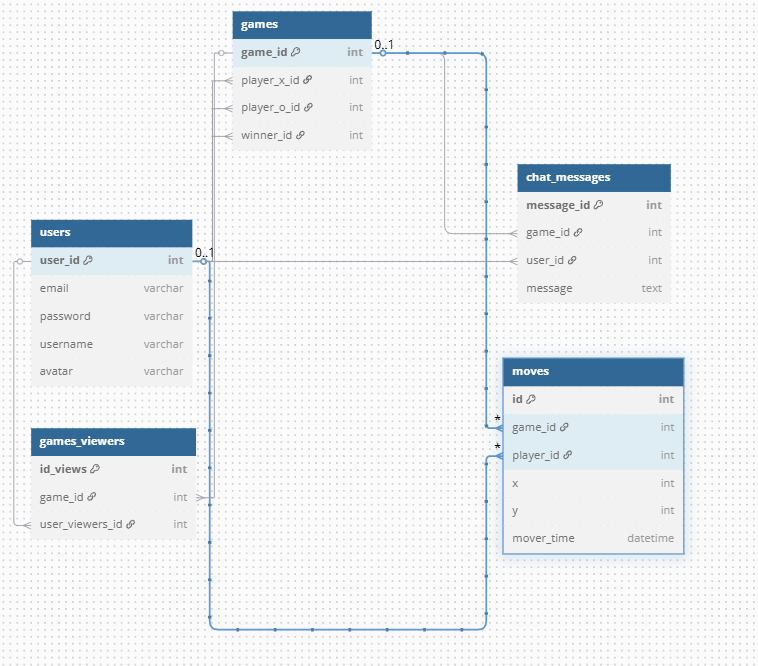
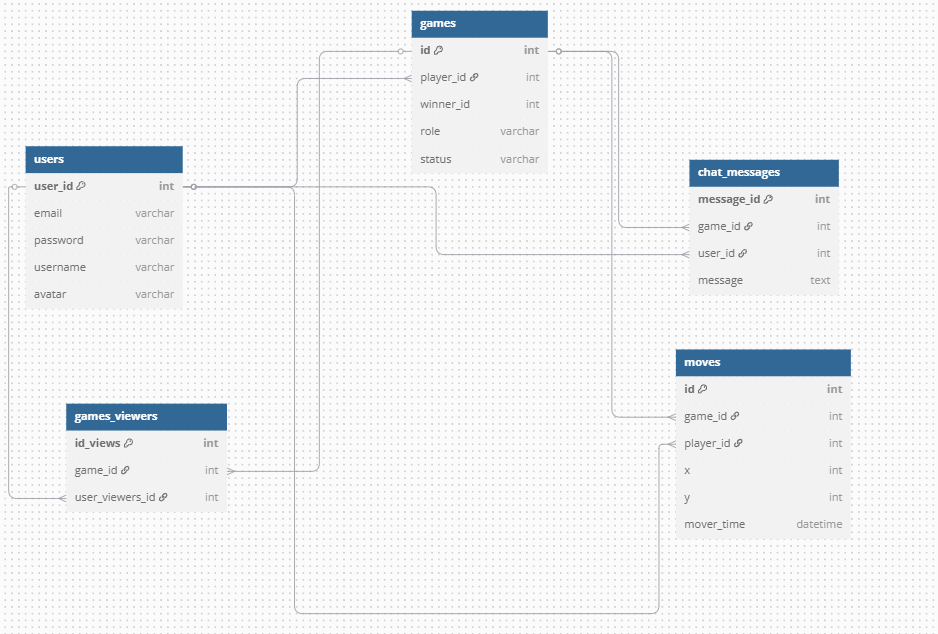
Udate database

diff --git a/server/src/controllers/userController.js b/server/src/controllers/userController.js
@@ -1,23 +1,23 @@
 const db = require('../models');
 
 const userController = {
-    create_user: async function create_user(req, res) {
+    create_user: async function (req, res) {
         try {
-            const { username, password, email } = req.body;
-            const newUser = await db.create({username,password,email})
+            console.log(req.body);
+            const newUser = await db.user.create(req.body);
             res.status(201).json({
                 message: 'Create user success',
                 data: newUser
             });
         } catch (error) {
             res.status(500).json({
-                message: 'Error creating user',
+                message: 'Không thể tạo người dùng',
                 error: error.message
             });
         }
     },
 
-    get_user_byID: async function get_user(req, res) {
+    get_user_byID: async function (req, res) {
         try {
             const user = await userModel.findById(req.params.id);
             if (!user) {
@@ -35,7 +35,7 @@ const userController = {
         }
     },
 
-    delete_user_byID: async function delete_user(req, res) {
+    delete_user_byID: async function (req, res) {
         try {
             const deletedUser = await userModel.findByIdAndDelete(req.params.id);
             if (!deletedUser) {
@@ -53,7 +53,7 @@ const userController = {
         }
     },
 
-    update_user: async function update_user(req, res) {
+    update_user: async function (req, res) {
         try {
             const updatedUser = await userModel.findByIdAndUpdate(
                 req.params.id,

diff --git a/server/index.js b/server/index.js
@@ -1,23 +1,27 @@
 const express = require('express');
 const dotenv = require('dotenv');
 
+
+// npx sequelize-cli db:migrate
+// npx sequelize-cli model:generate --name games --attributes game_id:integer,player_x_id:integer,player_o_id:integer,winner_id:interger
+// npx sequelize-cli model:generate --name moves --attributes game_id:integer,player_id:integer,move_x:integer,move_y:integer,move_time:date
+
+// npx sequelize-cli db:migrate:undo:all
+// npx sequelize-cli model:generate --name chat_messages --attributes game_id:integer,player_id:integer,message:text
+
+// npx sequelize-cli model:generate --name game_views --attributes game_id:integer,player_id:integer
+
+const AppRoutes = require('./src/router/App.routes.js');
+
 const app = express();
 
 dotenv.config();
+app.use(express.json());
+express.urlencoded({ extended: true }); // Hỗ trợ query string
 
-const userRouter = express.Router();
+AppRoutes(app);
 
-userRouter.get('/users:id', (req, res) => {
-    const userId = req.params.id;
-    res.send(`User ID: ${userId}`);
-});
-
-userRouter.get('/', (req, res) => {
-    res.send('Hello, World1122221!');  
-});
-
-app.use('/', userRouter);
-
-app.listen(process.env.PORT, () => {
-    console.log(`Server is running at http://localhost:${process.env.PORT}`);
+const port = process?.env?.PORT ?? 3000;
+app.listen(port, () => {
+    console.log(`Server is running at http://localhost:${port}`);
 });

diff --git a/client/src/api/axiosClinet.ts b/client/src/api/axiosClinet.ts
@@ -1,0 +1,55 @@
+import axios from "axios"
+import config from "../config/config";
+import queryString from "query-string"
+
+const axiosClient = axios.create({
+    baseURL:  config.baseUrl,
+    headers: {
+        'Content-Type': 'application/json',
+    },
+    paramsSerializer: params => queryString.stringify(params),
+    timeout: 10000,
+});
+
+
+axiosClient.interceptors.request.use(
+    config => {
+      const token = localStorage.getItem('access_token');
+      if (token) {
+        config.headers.Authorization = `Bearer ${token}`;
+      }
+      return config;
+    },
+    error => {
+      return Promise.reject(error);
+    }
+  );
+
+  axiosClient.interceptors.response.use(
+    (response) => {
+      if (response && response.data) {
+        return response.data;
+      }
+      return response;
+    },
+    (error) => {
+      if (error.response) {
+        switch (error.response.status) {
+          case 401:
+            window.location.href = '/login';
+            break;
+          case 404:
+            console.error('API endpoint not found');
+            break;
+          case 500:
+            console.error('Server error');
+            break;
+          default:
+            console.error('Unknown error');
+        }
+      }
+      return Promise.reject(error);
+    }
+  );
+
+export default axiosClient;

diff --git a/server/src/models/games.js b/server/src/models/games.js
@@ -11,7 +11,7 @@ module.exports = (sequelize, DataTypes) => {
      */
     static associate(models) {
       // define association here
-      games.belongsTo(models.users, {
+      games.belongsTo(models.user, {
         foreignKey: 'player_id',
       });
       games.hasMany(models.moves, {
@@ -20,13 +20,12 @@ module.exports = (sequelize, DataTypes) => {
       games.hasMany(models.chat_messages, {
         foreignKey: 'game_id',
       });
-      games.hasMany(models.games_viewers, {
+      games.hasMany(models.game_views, {
         foreignKey: 'game_id',
       })
     }
   }
   games.init({
-    game_id: DataTypes.INTEGER,
     player_id: DataTypes.INTEGER,
     winner_id: DataTypes.INTEGER,
     role: DataTypes.STRING,
@@ -36,6 +35,7 @@ module.exports = (sequelize, DataTypes) => {
     modelName: 'games',
     tableName: 'games',
     underscored: true,
+    timestamps: false,
   });
   return games;
 };

diff --git a/server/src/migrations/20250418200612-create-game-views.js b/server/src/migrations/20250418200612-create-game-views.js
@@ -2,7 +2,7 @@
 /** @type {import('sequelize-cli').Migration} */
 module.exports = {
   async up(queryInterface, Sequelize) {
-    await queryInterface.createTable('game_views', {
+    await queryInterface.createTable('game_viewers', {
       id: {
         allowNull: false,
         autoIncrement: true,
@@ -13,21 +13,13 @@ module.exports = {
         type: Sequelize.INTEGER,
         allowNull: false
       },
-      player_id: {
+      user_id: {
         type: Sequelize.INTEGER,
         allowNull: false
       },
-      createdAt: {
-        allowNull: false,
-        type: Sequelize.DATE
-      },
-      updatedAt: {
-        allowNull: false,
-        type: Sequelize.DATE
-      }
     });
   },
   async down(queryInterface, Sequelize) {
-    await queryInterface.dropTable('game_views');
+    await queryInterface.dropTable('game_viewers');
   }
 };

diff --git a/server/src/models/user.js b/server/src/models/user.js
@@ -19,10 +19,10 @@ module.exports = (sequelize, DataTypes) => {
         foreignKey: 'player_id',
       });
       user.hasMany(models.chat_messages, {
-        foreignKey: 'player_id',
+        foreignKey: 'user_id',
       });
-      user.hasMany(models.game_viewers, {
-        foreignKey: 'player_id',
+      user.hasMany(models.game_views, {
+        foreignKey: 'user_id',
       });
       // Một người chơi có thể chơi nhiều ván game với 2 vai trò khác nhau
     }
@@ -34,6 +34,9 @@ module.exports = (sequelize, DataTypes) => {
   }, {
     sequelize,
     modelName: 'user',
+    tableName: 'users',
+    underscored: true,
+    timestamps: false,
   });
   return user;
 };

diff --git a/server/src/models/game_views.js b/server/src/models/game_views.js
@@ -14,19 +14,21 @@ module.exports = (sequelize, DataTypes) => {
       game_views.belongsTo(models.games, {
         foreignKey: 'game_id',
       });
-      game_views.belongsTo(models.players, {
-        foreignKey: 'player_id',
+      game_views.belongsTo(models.user, {
+        
+        foreignKey: 'user_id',
       });
     }
   }
   game_views.init({
     game_id: DataTypes.INTEGER,
-    player_id: DataTypes.INTEGER
+    user_id: DataTypes.INTEGER
   }, {
     sequelize,
-    modelName: 'game_viewers',
-    tableName: 'game_viewers',
+    modelName: 'game_views',
+    tableName: 'game_views',
     underscored: true,
+    timestamps: false,
   });
   return game_views;
 };

diff --git a/server/src/models/chat_messages.js b/server/src/models/chat_messages.js
@@ -14,18 +14,21 @@ module.exports = (sequelize, DataTypes) => {
       chat_messages.belongsTo(models.games, {
         foreignKey: 'game_id',
       });
-      chat_messages.belongsTo(models.users, {
-        foreignKey: 'player_id',
+      chat_messages.belongsTo(models.user, {
+        foreignKey: 'user_id',
       });
     }
   }
   chat_messages.init({
     game_id: DataTypes.INTEGER,
-    player_id: DataTypes.INTEGER,
+    user_id: DataTypes.INTEGER,
     message: DataTypes.TEXT
   }, {
     sequelize,
     modelName: 'chat_messages',
+    tableName: 'chat_messages',
+    underscored: true,
+    timestamps: false,
   });
   return chat_messages;
 };

diff --git a/client/src/services/authService.ts b/client/src/services/authService.ts
@@ -1,0 +1,25 @@
+import axiosClient from "../api/axiosClinet";
+
+interface User {
+    username: string;
+    email: string;
+    password: string;
+}
+
+interface AuthResponse {
+    access_token: string;  
+    user: User;
+}
+
+
+
+const authService = {
+    regiter: (username: string, email : string, password : string) : Promise<AuthResponse> => {
+        return axiosClient.post("/register", { username, email, password });
+    },
+    login: (email: string, password: string): Promise<AuthResponse> => {
+        return axiosClient.post('/auth/login', { email, password });
+    },  
+}
+
+export default authService;

diff --git a/client/src/layout/Auth/Register.tsx b/client/src/layout/Auth/Register.tsx
@@ -1,7 +1,8 @@
 import { Button, Paper, Stack, TextField, Typography } from '@mui/material'
 import { useState } from 'react'
-import theme from '../constants/theme'
+import theme from '../../constants/theme'
 import { Link } from 'react-router'
+
 
 const Register = () => {
   
@@ -9,11 +10,8 @@ const Register = () => {
     const [password,Setpassword] = useState<string>('')
     const [email,Setemail] = useState<string>('')
     const [passwordConfirm,SetpasswordConfirm] = useState<string>('')
-  
-  
     const handleSubmit = () => {}
-       
-  
+
   
     return (
       <Stack

diff --git a/server/src/models/moves.js b/server/src/models/moves.js
@@ -14,7 +14,7 @@ module.exports = (sequelize, DataTypes) => {
       moves.belongsTo(models.games, {
         foreignKey: 'game_id',
       });
-      moves.belongsTo(models.users, {
+      moves.belongsTo(models.user, {
         foreignKey: 'player_id',
       });
     }
@@ -30,6 +30,7 @@ module.exports = (sequelize, DataTypes) => {
     modelName: 'moves',
     tableName: 'moves',
     underscored: true,
+    timestamps: false,
   });
   return moves;
 };

diff --git a/client/src/layout/Auth/Login.tsx b/client/src/layout/Auth/Login.tsx
@@ -1,6 +1,6 @@
 import { Button, Paper, Stack, TextField, Typography } from "@mui/material";
-import LogoComponet from "../components/LogoComponent";
-import theme from "../constants/theme";
+import LogoComponet from "../../components/LogoComponent";
+import theme from "../../constants/theme";
 import { useState } from "react";
 import { Link } from "react-router";
 
